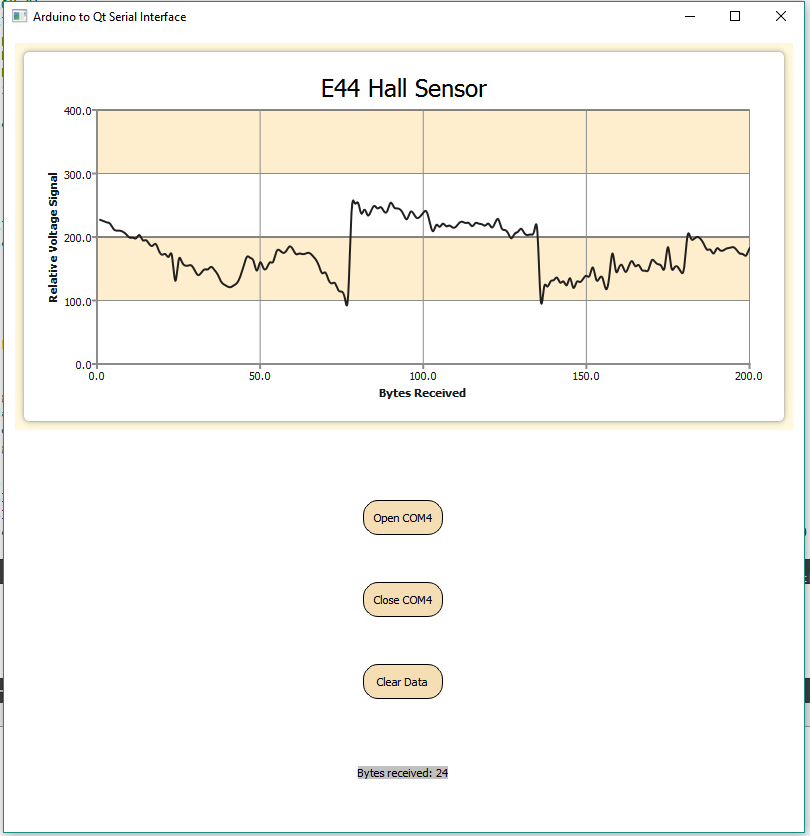
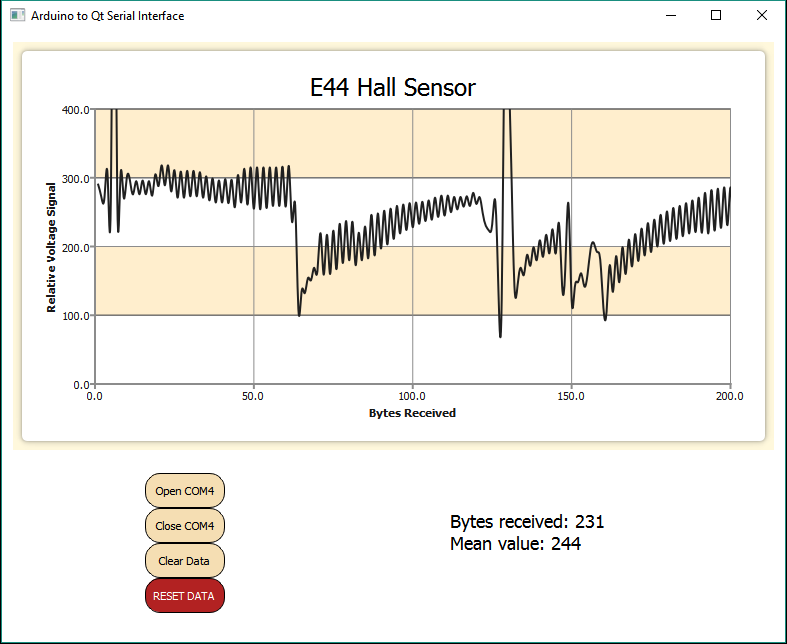
UI

diff --git a/src/mainwindow.cpp b/src/mainwindow.cpp
@@ -4,6 +4,16 @@
 #include <iostream>
 MainWindow::MainWindow()
 {
+    // TOOLBAR SETUP
+    auto tb = new QToolBar();
+    tb->addAction("file");
+    tb->addAction("State");
+    auto dockLayout = new QVBoxLayout();
+    dockLayout->setMenuBar(tb);
+
+    auto dockContent = new QWidget();
+    dockContent->setLayout(dockLayout);
+
 
     // SERIAL COMM
     s_com = new SerialCommunicator(series);
@@ -17,26 +27,36 @@ MainWindow::MainWindow()
     top_box_layout ->setSpacing(5);
     setLayout(top_box_layout);
 
+
+
     // COM BUTTON LAYOUT
     QWidget *commsPanelWidget = new QWidget;
-    comms_panel_layout = new QGridLayout(commsPanelWidget);
+    comms_panel_layout = new QHBoxLayout(commsPanelWidget);
 
     // Setting comms log and other static memory member widgets' properties
-    comms_log.setTextBackgroundColor(Qt::lightGray);
-    comms_log.setStyleSheet("background-color: white; border: solid 1px black;float:left;");
-    comms_log.setText("Bytes received: 24");
-    comms_log.setFixedSize(100,50);
-    comms_panel_layout->setSpacing(5);
+
+    comms_log.setStyleSheet("font-size: 18px; color: black; background-color: white; border: solid 2px black;");
+    comms_log.setText("Bytes received: " + QString::number(total_bytes_read) + "\nMean value:\n");
+
+    comms_log.setFixedSize(200,150);
+    comms_panel_layout->setSpacing(0);
 
 
     QSpacerItem height_spacer_100(100,100);
     com_button_layout = new QVBoxLayout(comControlWidget);
    // com_button_layout->addItem(&height_spacer_100);
+    transmission_label.setText("Transmission |");
+    reception_label.setText("Reception |");
+
+
     com_button_layout->setSpacing(0);
     com_button_layout->addWidget(&LED_ON);
     com_button_layout->addWidget(&FLICKER_LED);
     com_button_layout->addWidget(&READ_BUTTON);
+    com_button_layout->addWidget(&RESET_DATA_BUTTON);
+
     LED_ON.setFixedSize(80,35);FLICKER_LED.setFixedSize(80,35);READ_BUTTON.setFixedSize(80,35);
+    RESET_DATA_BUTTON.setFixedSize(80,35);
 
     // CHART VIEW
 
@@ -82,7 +102,6 @@ MainWindow::MainWindow()
     chart->setTitleBrush(QBrush(Qt::black));
     chart->setTitleFont(font);
 
-
     // LED SETTINGS
     LED_ON.setText("Open COM4");
     FLICKER_LED.setText("Close COM4");
@@ -104,6 +123,14 @@ MainWindow::MainWindow()
                               "border-radius:15px; "
                               "border: 1px outset black;");
 
+    RESET_DATA_BUTTON.setText("RESET DATA");
+    RESET_DATA_BUTTON.setStyleSheet("padding: 3px; "
+                                    "font-weight: 2px;"
+                              "background-color: firebrick;"
+                              " color: white;"
+                              "border-radius:15px; "
+                              "border: 1px outset black;");
+
     // ADDING WIDGETS AND LAYOUTS TO MAIN LAYOUT
 
 
@@ -114,7 +141,8 @@ MainWindow::MainWindow()
 
     connect(&LED_ON,SIGNAL(clicked()),s_com,SLOT(Open_COM4()));
     connect(&FLICKER_LED,SIGNAL(clicked()),s_com,SLOT(Close_COM4()));
-    connect(&READ_BUTTON,SIGNAL(clicked()),this,SLOT(READ_CLICKED()));
+    connect(&READ_BUTTON,SIGNAL(clicked()),this,SLOT(CLEAR_CHART_CLICKED()));
+    connect(&RESET_DATA_BUTTON,SIGNAL(clicked()),this,SLOT(RESET_DATA_CLICKED()));
     connect(s_com,SIGNAL(send_chart_data(unsigned int, unsigned int)),this,SLOT(receive_chart_data(unsigned int, unsigned int)));
 }
 
@@ -122,8 +150,12 @@ MainWindow::MainWindow()
 void MainWindow::receive_chart_data(unsigned int br, unsigned int d)
 {
     qDebug() << "Received: " << br << ", " << d << "\n";
-
+    total_bytes_read+=1;
     series->append(br, d);
+    data_value_sum+=d;
+    average_data_value = data_value_sum/total_bytes_read;
+    comms_log.setText("Bytes received: " + QString::number(total_bytes_read) +
+                      "\nMean value: "  + QString::number(average_data_value) +"\n");
 }
 void MainWindow::LED_ONOFF_CLICKED()
 {
@@ -178,8 +210,21 @@ void MainWindow::FLICKER_LED_CLICKED()
 
 }
 
-void MainWindow::READ_CLICKED()
+void MainWindow::CLEAR_CHART_CLICKED()
 {
    s_com->bytes_read = 0;
    series->clear();
+   comms_log.setText("Bytes received: " + QString::number(total_bytes_read) +
+                     "\nMean value: "  + QString::number(average_data_value) +"\n");
+}
+
+void MainWindow::RESET_DATA_CLICKED()
+{
+  // chartView->chart()->setTheme(QChart::ChartThemeDark);
+   total_bytes_read = 0;
+   data_value_sum = 0;
+   average_data_value = 0;
+   comms_log.setText("Bytes received: " + QString::number(total_bytes_read) +
+                     "\nMean value: "  + QString::number(average_data_value) +"\n");
+
 }

diff --git a/src/mainwindow.h b/src/mainwindow.h
@@ -31,17 +31,16 @@ private slots:
 
     void LED_ONOFF_CLICKED();
     void FLICKER_LED_CLICKED();
-    void READ_CLICKED();
+    void CLEAR_CHART_CLICKED();
+    void RESET_DATA_CLICKED();
     void receive_chart_data(unsigned int, unsigned int);
 
 private:
 
     QVBoxLayout * com_button_layout;
     QVBoxLayout * top_box_layout;
-    QGridLayout * comms_panel_layout;
-    QPushButton LED_ON;
-    QPushButton FLICKER_LED;
-    QPushButton READ_BUTTON;
+    QHBoxLayout* comms_panel_layout;
+
     QTextBrowser res;
     bool LED1_IS_ON = false;
 
@@ -62,11 +61,29 @@ private:
 
     // SERIAL INTERACTION
 
+    // Layout Partition Labels
+
+    QLabel transmission_label;
+    QLabel reception_label;
+
+
+    // Buttons and variables
+    QPushButton LED_ON;
+    QPushButton FLICKER_LED;
+    QPushButton READ_BUTTON;
+    QPushButton RESET_DATA_BUTTON;
+    unsigned int total_bytes_read = 0;
+
     // Serial communicator
     SerialCommunicator * s_com;
 
     // Serial comms log text view
-    QTextBrowser comms_log;
+    QLabel comms_log;
+
+    // Serial Data Management
+    unsigned int data_value_sum = 0;
+    float average_data_value = 0;
+
 
 };
 

diff --git a/src/serialcommunicator.h b/src/serialcommunicator.h
@@ -23,7 +23,6 @@ private slots:
     void Open_COM4();
     void Close_COM4();
 
-
 protected:
 
     // SERIAL COMMUNICATIONS
